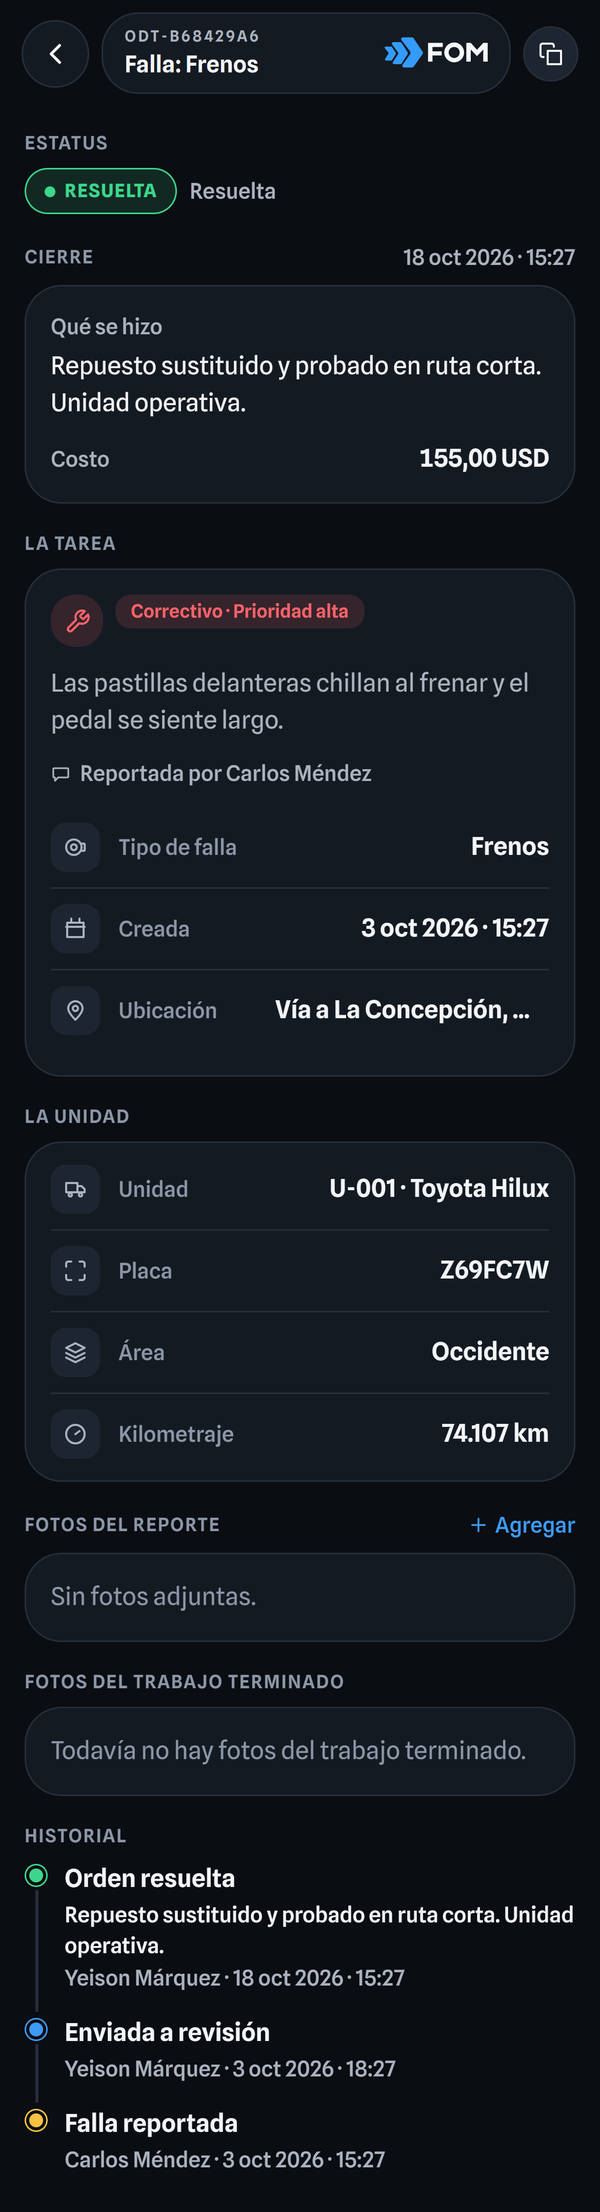
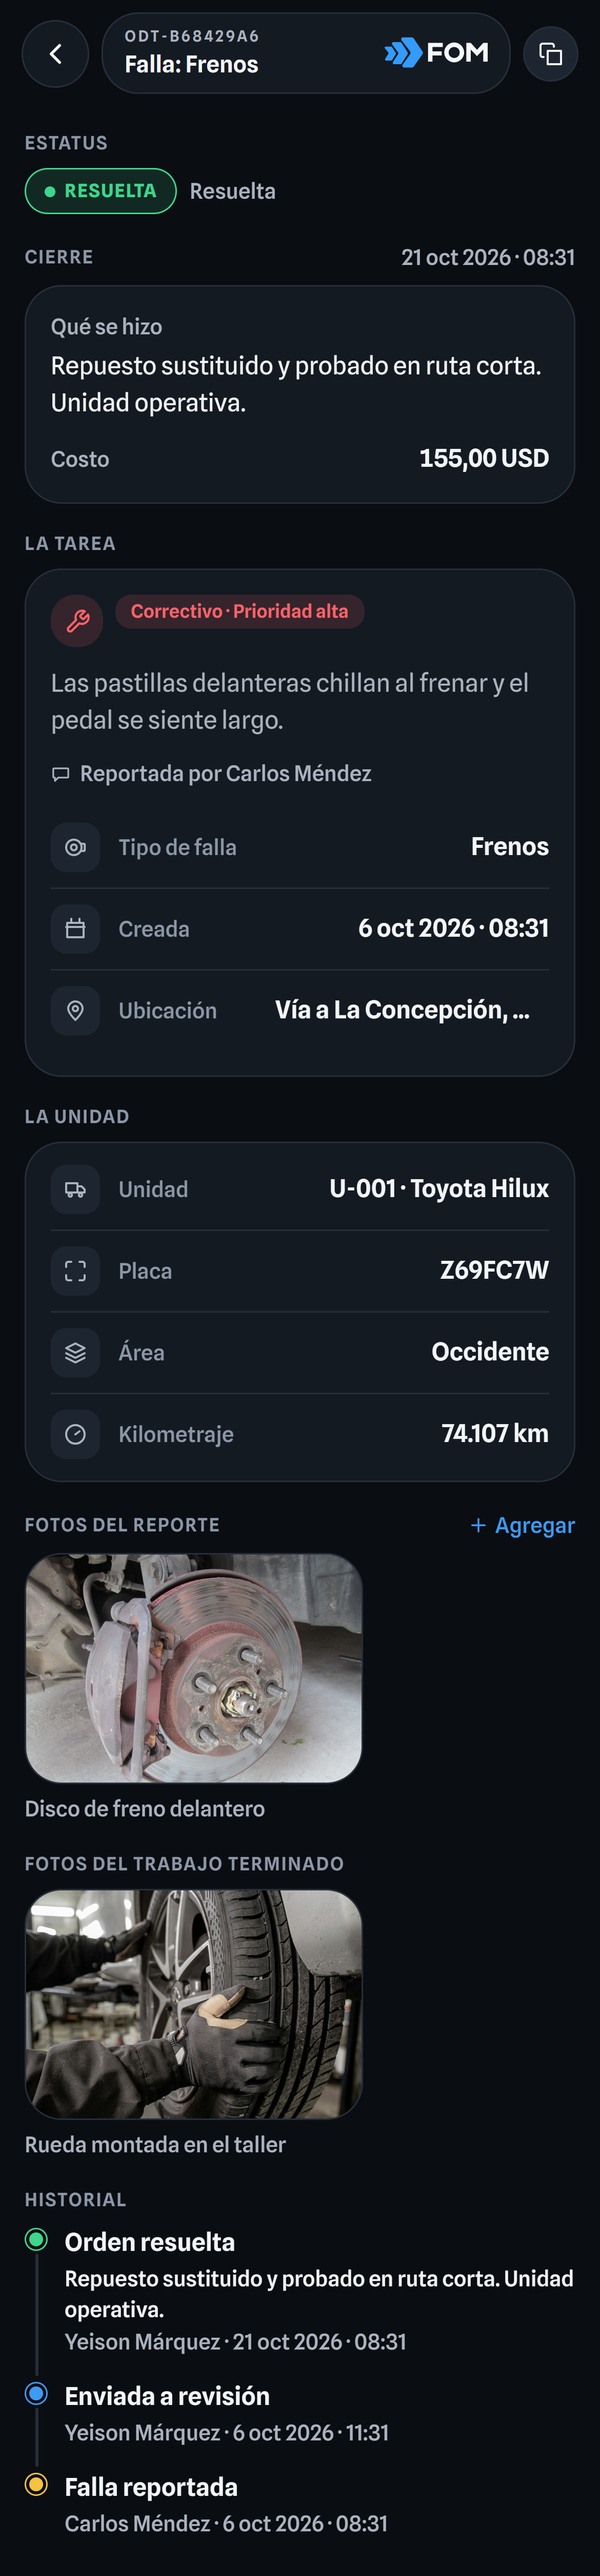
Demo de la app con las fotos reales de las órdenes (disco de freno, caucho, luz trasera y taller), las 44 capturas al día y la hoja de vehículos con el Foton nuevo (T-169)

diff --git a/tools/app-demo-api/preparar_fotos.py b/tools/app-demo-api/preparar_fotos.py
@@ -13,8 +13,12 @@
 #                       La app la pinta con «contain» sobre la tarjeta oscura: mejor recortada al
 #                       vehículo entero, 3/4 delantero mirando a la izquierda, con poco aire.
 #                       Si trae fondo, se ve como un rectángulo: lo ideal es fondo transparente.
-# - falla-1.jpg / falla-2.jpg  fotos del reporte de una orden de frenos (rueda, caucho).
-# - taller.jpg                 foto del trabajo terminado (la camioneta en el taller).
+# - falla-1.jpg     caucho gastado (órdenes de neumáticos).
+# - falla-2.jpg     disco de freno delantero (órdenes de frenos).
+# - luz-trasera.jpg luz trasera rota (la orden de la luz y la falla de luces de la inspección).
+# - taller.jpg      rueda montada en el taller (cierre de frenos y neumáticos).
+#   Las cuatro salen de comparativa/fotos-ordenes/recortes (fotos reales con licencia libre,
+#   créditos en su CREDITOS.md), ya en 4:3: sin caja.
 import sys
 from pathlib import Path
 
@@ -27,6 +31,7 @@ TAMANOS = {
     'toyota-hilux.png': (1360, 820),
     'falla-1.jpg': (1000, 750),
     'falla-2.jpg': (1000, 750),
+    'luz-trasera.jpg': (1000, 750),
     'taller.jpg': (1000, 750),
 }
 

diff --git a/comparativa/web-v8-fotos/capturas-app/INDICE-APP.md b/comparativa/web-v8-fotos/capturas-app/INDICE-APP.md
@@ -1,4 +1,4 @@
-# Capturas de la APP real (T-147, repetidas en T-161)
+# Capturas de la APP real (T-147, repetidas en T-161 y T-169)
 
 La app de Juan (`fom-driver-juan`, Expo web) con datos de demostración del servidor falso
 `tools/app-demo-api` (Transporte Lago Sur, Zulia). Teléfono 390 × 844 px CSS a 3x (1170 × 2532),
@@ -22,58 +22,78 @@ Ajuste en las capturas: en la web de la app, react-native-web ignora el `padding
 teléfono salen bien. Antes de cada foto se les pone el relleno que pide el código
 (70 px arriba / 80 px a la izquierda). Afecta a m-sup-resumen y m-sup-resumen-cifras.
 
+**T-169 (26 oct 2026):** fotos de órdenes REALES con licencia libre (originales y créditos en
+`comparativa/fotos-ordenes/`, copias de 1000 × 750 en `tools/app-demo-api/fotos/`). Cada orden
+lleva solo la foto que cuadra con su falla:
+
+| Foto | Pie en la app | Va en |
+|---|---|---|
+| falla-2.jpg (disco de freno oxidado) | Disco de freno delantero | fotos del reporte de las órdenes de frenos por pastillas (la resuelta de Carlos ODT-B68429A6, su asignada «Cambiar las pastillas…», U-019 y U-023); también la que Carlos adjunta en Reportar una falla |
+| falla-1.jpg (caucho gastado en el hombro) | Caucho gastado por el borde | fotos del reporte de las órdenes de neumáticos (U-007, U-008, U-026) |
+| luz-trasera.jpg (luz trasera sin mica) | Luz trasera izquierda rota | la orden asignada de la luz de Carlos (ODT-633D5AB7) y la falla de luces en la inspección |
+| taller.jpg (rueda montada en el taller) | Rueda montada en el taller | fotos del trabajo terminado de las órdenes de frenos y neumáticos cerradas |
+
+Sin fotos (no hay ninguna que les cuadre): motor, carrocería, el freno de estacionamiento, las
+luces de cruce de U-010 y los servicios por kilometraje.
+La orden de la luz decía «Revisar la luz de cruce derecha, se apaga sola.»; ahora dice «Luz trasera
+izquierda rota: se cayó la mica y no enciende.» para que cuadre con su foto (y con la falla de la
+inspección). Por eso se repitieron también las pantallas que la listan.
+Repetidas en T-169: m-cond-insp-foto, m-cond-reportar-fotos, m-cond-reportar-larga,
+m-cond-orden-fotos, m-cond-orden-larga, m-orden-historial, m-sup-fotos, m-sup-resuelta,
+m-cond-asignadas, m-cond-mantenimiento, m-cond-mantenimiento-lista, m-sup-mantenimiento y
+m-sup-mantenimiento-lista. Las 44 se sacan con `lote.mjs` (antes faltaban las 3 de fotos).
+
 ## Cada captura
 
-Columna «T-161»: **sí** = repetida; **NO** = no se repitió y el archivo que hay es el viejo de
-T-147 (con la Hilux del disco y fotos de orden hechas con IA): no usar hasta que haya fotos de
-órdenes con licencia.
+Columna «Última vez»: T-161 (23 oct, sin fotos de órdenes) o T-169 (26 oct, con fotos reales).
+Ya no queda ninguna del T-147 con fotos hechas con IA.
 
-| Archivo (3x/) | Rol | Pantalla | Reemplaza a (web) | T-161 |
+| Archivo (3x/) | Rol | Pantalla | Reemplaza a (web) | Última vez |
 |---|---|---|---|---|
-| m-cond-inicio.png | Conductor | Mi unidad, hoja abierta: Hilux (foto con licencia), 61 km/h, placa | cap-movil-cond-inicio | sí |
-| m-cond-inicio-indice.png | Conductor | Mi unidad: índice 83/100 «Puedes mejorar» | — (extra) | sí |
-| m-cond-inicio-telemetria.png | Conductor | Mi unidad: telemetría y odómetro | — (extra) | sí |
-| m-cond-mapa.png | Conductor | Mi mapa (la unidad en el mapa, SOS) | cap-movil-cond-mapa | sí |
-| m-cond-perfil.png | Conductor | Mi perfil: índice 83/100 y eventos por 100 km | cap-movil-cond-perfil | sí |
-| m-cond-inspeccion.png | Conductor | Inspección diaria (hoja por llenar) | — (extra) | sí |
-| m-cond-insp-foto.png | Conductor | Inspección: falla crítica (luces) con nota y observación, sin foto | — (extra) | sí |
-| m-insp-resultado.png | Conductor | Resultado de inspección bloqueada (2 fallas críticas, 1 observación) | cap-movil-insp-resultado | sí |
-| m-insp-bloqueada.png | Conductor | Inspección bloqueada (no puede salir) | cap-movil-insp-bloqueada | sí |
-| m-cond-mantenimiento.png | Conductor | Mantenimiento de mi unidad: cifras, U-001, buscador y filtros | cap-movil-cond-mantenimiento | sí |
-| m-cond-mantenimiento-lista.png | Conductor | Mantenimiento: lista de órdenes y realizadas | — (extra) | sí |
-| m-cond-asignadas.png | Conductor | Asignadas a ti (2 órdenes) | cap-movil-mnt-asignadas | sí |
-| m-cond-reportar.png | Conductor | Reportar una falla (frenos, alta), Hilux con licencia | cap-movil-mnt-reportar | sí |
-| m-cond-reportar-fotos.png | Conductor | Reportar una falla con fotos | cap-movil-mnt-reportar-fotos | NO: sin fotos sale igual que m-cond-reportar |
-| m-cond-reportar-larga.png | Conductor | Reportar una falla, un poco más alta: se ven Tomar foto / Galería sin fotos | — (extra) | sí |
-| m-cond-orden-resuelta.png | Conductor | Orden resuelta (cierre y costo) | — (extra) | sí |
-| m-cond-orden-fotos.png | Conductor | Orden: fotos del reporte y del cierre | — (extra) | NO: sin fotos solo enseña dos recuadros vacíos (lo mismo sale en m-orden-historial) |
-| m-cond-orden-larga.png | Conductor | Orden resuelta entera, pantalla larga (fotos: «Sin fotos adjuntas») | — (extra) | sí |
-| m-orden-historial.png | Conductor | Orden: la unidad, fotos vacías e historial | — (extra) | sí |
-| m-sup-resumen.png | Supervisor | Resumen: flota 26 · 15 en marcha, ODT, alertas, mapa | cap-movil-sup-resumen | sí |
-| m-sup-resumen-unidad.png | Supervisor | Resumen: vehículo seleccionado (U-001 con foto con licencia) | — (extra) | sí |
-| m-sup-resumen-cifras.png | Supervisor | Resumen: inspecciones, mantenimiento, documentos, manejo | — (extra) | sí |
-| m-sup-vehiculos.png | Supervisor | Vehículos: cifras y mapa | cap-movil-sup-vehiculos | sí |
-| m-sup-vehiculos-lista.png | Supervisor | Vehículos: No pueden salir / Atención | — (extra) | sí |
-| m-sup-unidad.png | Supervisor | Ficha de la Unidad U-001 (con foto con licencia) | — (extra) | sí |
-| m-sup-mapa.png | Supervisor | Mapa de la flota (26 unidades) | cap-movil-sup-mapa | sí |
-| m-sup-mapa-unidad.png | Supervisor | Mapa con U-001 elegida | cap-movil-sup-mapa-unidad | sí |
-| m-sup-recorrido.png | Supervisor | Recorrido de U-001 (viajes y paradas) | — (extra) | sí |
-| m-sup-mantenimiento.png | Supervisor | Mantenimiento: abiertas, en revisión, resueltas | cap-movil-sup-mantenimiento | sí |
-| m-sup-mantenimiento-lista.png | Supervisor | Mantenimiento: «Atender ahora», lo más nuevo arriba | — (extra) | sí |
-| m-sup-orden.png | Supervisor | Orden abierta (frenos U-019) | — (extra) | sí |
-| m-sup-nueva-odt.png | Supervisor | Nueva ODT llena (U-004, motor, alta) | — (extra) | sí |
-| m-sup-planes.png | Supervisor | Control de la flota: planes de mantenimiento | — (extra) | sí |
-| m-sup-plan.png | Supervisor | Plan «Cambio de aceite y filtro» por unidad | cap-movil-mnt-plan (la web muestra «Nuevo plan») | sí |
-| m-sup-fotos.png | Supervisor | Orden: fotos del reporte y del cierre | cap-movil-mnt-fotos | NO: sin fotos no enseña nada propio |
-| m-sup-resuelta.png | Supervisor | Orden resuelta (con «Reabrir») | cap-movil-mnt-resuelta | sí |
-| m-sup-inspecciones.png | Supervisor | Inspecciones: 17 de 26 hoy, requiere atención | cap-movil-sup-inspecciones | sí |
-| m-sup-insp-historial.png | Supervisor | Inspecciones: historial por persona | cap-movil-insp-historial | sí |
-| m-sup-usuarios.png | Supervisor | Usuarios | — (extra) | sí |
-| m-sup-conductor.png | Supervisor | Perfil de Carlos Méndez (índice y eventos) | cap-movil-sup-conductor | sí |
-| m-sup-reportes.png | Supervisor | Reportes (tipo, período, alcance) | cap-movil-sup-reportes | sí |
-| m-sup-alertas.png | Supervisor | Alertas (8 sin leer) | cap-movil-sup-alertas | sí |
-| m-sup-perfil.png | Supervisor | Mi perfil (Más) | — (extra) | sí |
-| m-sup-areas.png | Supervisor | Áreas de la empresa | cap-movil-areas-vehiculos (parcial) | sí |
+| m-cond-inicio.png | Conductor | Mi unidad, hoja abierta: Hilux (foto con licencia), 61 km/h, placa | cap-movil-cond-inicio | T-161 |
+| m-cond-inicio-indice.png | Conductor | Mi unidad: índice 83/100 «Puedes mejorar» | — (extra) | T-161 |
+| m-cond-inicio-telemetria.png | Conductor | Mi unidad: telemetría y odómetro | — (extra) | T-161 |
+| m-cond-mapa.png | Conductor | Mi mapa (la unidad en el mapa, SOS) | cap-movil-cond-mapa | T-161 |
+| m-cond-perfil.png | Conductor | Mi perfil: índice 83/100 y eventos por 100 km | cap-movil-cond-perfil | T-161 |
+| m-cond-inspeccion.png | Conductor | Inspección diaria (hoja por llenar) | — (extra) | T-161 |
+| m-cond-insp-foto.png | Conductor | Inspección: falla crítica (luces) con nota y la foto de la luz trasera rota; observación en cruces | — (extra) | T-169 |
+| m-insp-resultado.png | Conductor | Resultado de inspección bloqueada (2 fallas críticas, 1 observación) | cap-movil-insp-resultado | T-161 |
+| m-insp-bloqueada.png | Conductor | Inspección bloqueada (no puede salir) | cap-movil-insp-bloqueada | T-161 |
+| m-cond-mantenimiento.png | Conductor | Mantenimiento de mi unidad: cifras, U-001, buscador y filtros | cap-movil-cond-mantenimiento | T-169 |
+| m-cond-mantenimiento-lista.png | Conductor | Mantenimiento: lista de órdenes y realizadas | — (extra) | T-169 |
+| m-cond-asignadas.png | Conductor | Asignadas a ti (2 órdenes: pastillas y luz trasera rota) | cap-movil-mnt-asignadas | T-169 |
+| m-cond-reportar.png | Conductor | Reportar una falla (frenos, alta), Hilux con licencia | cap-movil-mnt-reportar | T-161 |
+| m-cond-reportar-fotos.png | Conductor | Reportar una falla (frenos, alta) con la foto del disco y su título «Disco de freno delantero» | cap-movil-mnt-reportar-fotos | T-169 |
+| m-cond-reportar-larga.png | Conductor | Reportar una falla entero, pantalla larga: la Hilux, frenos, alta, descripción y la foto del disco con su título | — (extra) | T-169 |
+| m-cond-orden-resuelta.png | Conductor | Orden resuelta (cierre y costo) | — (extra) | T-161 |
+| m-cond-orden-fotos.png | Conductor | Orden resuelta: la unidad, foto del reporte (disco de freno) y del trabajo terminado (rueda en el taller) | — (extra) | T-169 |
+| m-cond-orden-larga.png | Conductor | Orden resuelta entera, pantalla larga, con sus dos fotos e historial | — (extra) | T-169 |
+| m-orden-historial.png | Conductor | Orden: fotos (disco y taller) e historial | — (extra) | T-169 |
+| m-sup-resumen.png | Supervisor | Resumen: flota 26 · 15 en marcha, ODT, alertas, mapa | cap-movil-sup-resumen | T-161 |
+| m-sup-resumen-unidad.png | Supervisor | Resumen: vehículo seleccionado (U-001 con foto con licencia) | — (extra) | T-161 |
+| m-sup-resumen-cifras.png | Supervisor | Resumen: inspecciones, mantenimiento, documentos, manejo | — (extra) | T-161 |
+| m-sup-vehiculos.png | Supervisor | Vehículos: cifras y mapa | cap-movil-sup-vehiculos | T-161 |
+| m-sup-vehiculos-lista.png | Supervisor | Vehículos: No pueden salir / Atención | — (extra) | T-161 |
+| m-sup-unidad.png | Supervisor | Ficha de la Unidad U-001 (con foto con licencia) | — (extra) | T-161 |
+| m-sup-mapa.png | Supervisor | Mapa de la flota (26 unidades) | cap-movil-sup-mapa | T-161 |
+| m-sup-mapa-unidad.png | Supervisor | Mapa con U-001 elegida | cap-movil-sup-mapa-unidad | T-161 |
+| m-sup-recorrido.png | Supervisor | Recorrido de U-001 (viajes y paradas) | — (extra) | T-161 |
+| m-sup-mantenimiento.png | Supervisor | Mantenimiento: abiertas, en revisión, resueltas | cap-movil-sup-mantenimiento | T-169 |
+| m-sup-mantenimiento-lista.png | Supervisor | Mantenimiento: «Atender ahora», lo más nuevo arriba | — (extra) | T-169 |
+| m-sup-orden.png | Supervisor | Orden abierta (frenos U-019) | — (extra) | T-161 |
+| m-sup-nueva-odt.png | Supervisor | Nueva ODT llena (U-004, motor, alta) | — (extra) | T-161 |
+| m-sup-planes.png | Supervisor | Control de la flota: planes de mantenimiento | — (extra) | T-161 |
+| m-sup-plan.png | Supervisor | Plan «Cambio de aceite y filtro» por unidad | cap-movil-mnt-plan (la web muestra «Nuevo plan») | T-161 |
+| m-sup-fotos.png | Supervisor | Orden resuelta: la unidad, foto del reporte y del trabajo terminado (con «+ Agregar» en las dos) | cap-movil-mnt-fotos | T-169 |
+| m-sup-resuelta.png | Supervisor | Orden resuelta (con «Reabrir»); las fotos quedan más abajo, fuera de la pantalla | cap-movil-mnt-resuelta | T-169 |
+| m-sup-inspecciones.png | Supervisor | Inspecciones: 17 de 26 hoy, requiere atención | cap-movil-sup-inspecciones | T-161 |
+| m-sup-insp-historial.png | Supervisor | Inspecciones: historial por persona | cap-movil-insp-historial | T-161 |
+| m-sup-usuarios.png | Supervisor | Usuarios | — (extra) | T-161 |
+| m-sup-conductor.png | Supervisor | Perfil de Carlos Méndez (índice y eventos) | cap-movil-sup-conductor | T-161 |
+| m-sup-reportes.png | Supervisor | Reportes (tipo, período, alcance) | cap-movil-sup-reportes | T-161 |
+| m-sup-alertas.png | Supervisor | Alertas (8 sin leer) | cap-movil-sup-alertas | T-161 |
+| m-sup-perfil.png | Supervisor | Mi perfil (Más) | — (extra) | T-161 |
+| m-sup-areas.png | Supervisor | Áreas de la empresa | cap-movil-areas-vehiculos (parcial) | T-161 |
 
 ## Las 23 cap-movil-* de la web y su pareja
 
@@ -88,10 +108,10 @@ T-147 (con la Hilux del disco y fotos de orden hechas con IA): no usar hasta que
 | cap-movil-insp-historial | m-sup-insp-historial |
 | cap-movil-insp-resultado | m-insp-resultado |
 | cap-movil-mnt-asignadas | m-cond-asignadas |
-| cap-movil-mnt-fotos | m-sup-fotos (vieja, con fotos IA: no usar; falta decidir las fotos de órdenes) |
+| cap-movil-mnt-fotos | m-sup-fotos |
 | cap-movil-mnt-plan | m-sup-plan (la web enseña el formulario «Nuevo plan»; la app, el plan con sus unidades) |
 | cap-movil-mnt-reportar | m-cond-reportar |
-| cap-movil-mnt-reportar-fotos | m-cond-reportar-fotos (vieja, con fotos IA: no usar; mientras, m-cond-reportar-larga) |
+| cap-movil-mnt-reportar-fotos | m-cond-reportar-fotos (una sola foto: la web dice «cada una con su título» y sus puntos van a otra altura) |
 | cap-movil-mnt-resuelta | m-sup-resuelta |
 | cap-movil-sup-alertas | m-sup-alertas |
 | cap-movil-sup-conductor | m-sup-conductor |
@@ -103,8 +123,7 @@ T-147 (con la Hilux del disco y fotos de orden hechas con IA): no usar hasta que
 | cap-movil-sup-resumen | m-sup-resumen |
 | cap-movil-sup-vehiculos | m-sup-vehiculos |
 
-Todas tienen pareja; la de áreas y la de plan son parciales, y la de fotos y reportar-fotos esperan
-las fotos de órdenes.
+Todas tienen pareja; la de áreas y la de plan son parciales.
 
 ## Fotos con mano (INDICE.md) y qué captura de la app llevan
 
@@ -156,5 +175,9 @@ Las demás unidades (p. ej. la Ford F-150 de m-sup-nueva-odt) salen con la silue
 - m-sup-inspecciones: «Abre el resultado para ver fallas y observaciones -…».
 - Mi perfil del conductor (más abajo de lo que sale en m-cond-perfil): «documentos al d…».
 - m-cond-perfil: la campana no lleva el número de avisos (en Mi unidad sí sale «3»).
-- Reportar una falla: sin fotos el formulario cabe sin desplazarse y el botón fijo «Crear ODT»
-  tapa los botones Tomar foto / Galería (por eso m-cond-reportar-larga es un poco más alta).
+- Reportar una falla: en la web de la app, react-native-web deja que `padding` pise el
+  `paddingBottom: 120` del formulario y el botón fijo «Crear ODT» tapa la Evidencia; en el teléfono
+  sale bien. Como con las cifras, `lote.mjs` le pone el relleno que pide el código antes de la foto
+  (m-cond-reportar-fotos, m-cond-reportar-larga).
+- La foto de la luz trasera es de un carro rojo, no de la Hilux gris de Carlos (es la única real
+  con licencia que hay de una luz rota).
